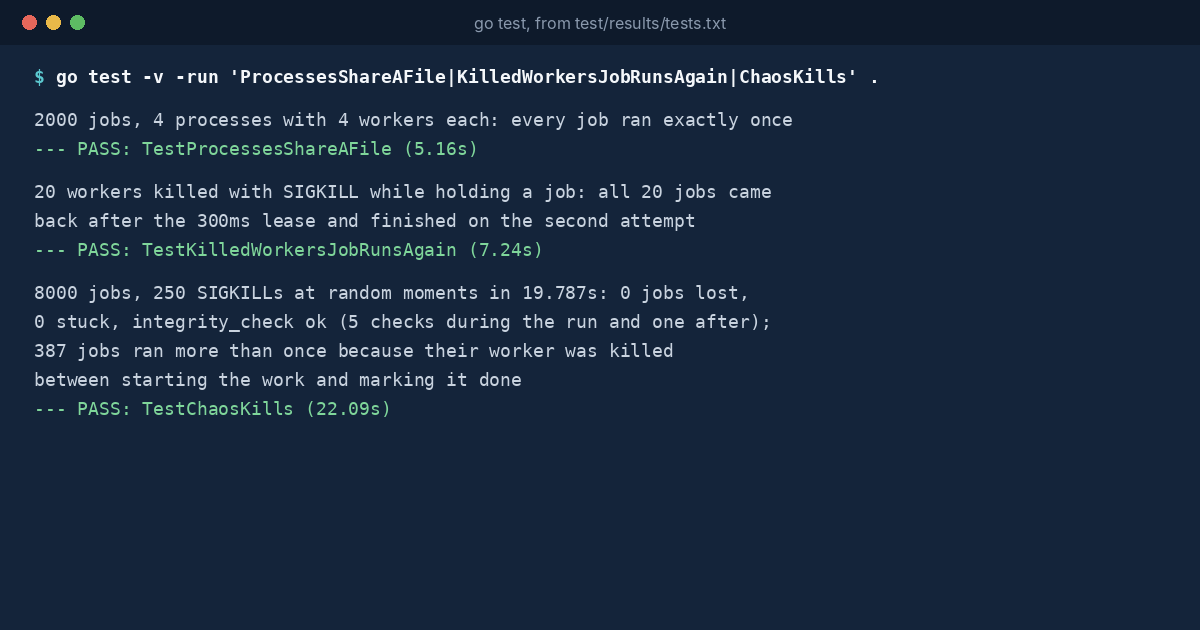
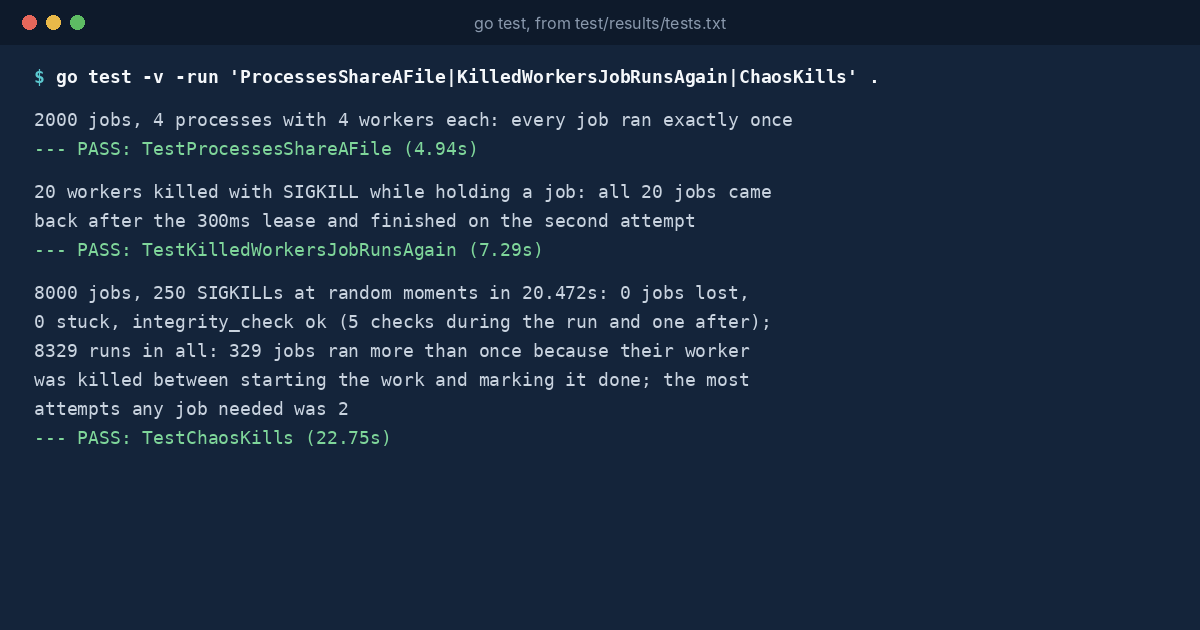
Updates for ukue's review fixes and the new test results
- The test numbers from the new recording: 329 jobs ran more than once in
  the kill test, 21 microseconds for an empty claim, 1.1 ms to add, claim
  and finish, about 4,000 jobs a second added and 900 run.
- The HTTP API page covers the browser and host-name protection and the
  priority range; the file format page the priority range and when ukue
  switches a file to WAL.
- Smaller corrections to the quick start, the release post and the name
  post, and the test image redrawn from the new results.

Claude-Session: https://claude.ai/code/session_01BGMFGM2Wh27ePKhDb5b5X3

Changed region(s): [[0.0308, 0.5429, 0.6167, 0.7238], [0.4317, 0.4524, 0.4933, 0.4825], [0.3392, 0.2111, 0.4008, 0.2413]]

diff --git a/content/posts/how-ukue-was-tested.md b/content/posts/how-ukue-was-tested.md
@@ -18,7 +18,7 @@ The hardest test starts four worker processes on one file with 8,000 jobs, four 
 
 After 250 kills and about 20 seconds, all 8,000 jobs were done. None was lost, none was left stuck, and SQLite's own integrity check found the file intact, both during the run and after it.
 
-387 jobs ran more than once. That's expected: their worker was killed after it started the work and before it marked the job done, so the job's lease ran out and another worker picked it up. This is what at-least-once delivery means in practice, and it's why handlers should be safe to repeat.
+329 jobs ran more than once. That's expected: their worker was killed after it started the work and before it marked the job done, so the job's lease ran out and another worker picked it up. This is what at-least-once delivery means in practice, and it's why handlers should be safe to repeat.
 
 ## A Kill While Holding a Job
 
@@ -34,8 +34,8 @@ ukue's [file format](https://ukue.com/file-format/) is meant to be shared, so on
 
 ## A Long Schedule
 
-A queue full of jobs scheduled for later shouldn't slow down the jobs that are due. With 100,000 scheduled jobs in the file, a claim that found nothing due took 42 microseconds, and adding, claiming and finishing a job took 1.6 milliseconds. Claims look jobs up through indexes, and the test checks SQLite's query plans to make sure they stay that way.
+A queue full of jobs scheduled for later shouldn't slow down the jobs that are due. With 100,000 scheduled jobs in the file, a claim that found nothing due took 21 microseconds, and adding, claiming and finishing a job took 1.1 milliseconds. Claims look jobs up through indexes, and the test checks SQLite's query plans to make sure they stay that way.
 
 ## And the Rest
 
-Every operation has its own tests: delays, priorities, backoff, dead letters, leases that run out, the HTTP API and the command line. The whole suite also runs under Go's race detector, which found nothing. You can run all of it yourself with `sh scripts/record-tests.sh` from [the repository](https://github.com/ukue-queue/ukue).
+Every operation has its own tests: delays, priorities, backoff, dead letters, leases that run out, the HTTP API and the command line. One test has another program hold the file's write lock just as a job finishes; the worker keeps its lease and keeps trying to mark the job done until it can, and the job runs once. The whole suite also runs under Go's race detector, which found nothing. You can run all of it yourself with `sh scripts/record-tests.sh` from [the repository](https://github.com/ukue-queue/ukue).

diff --git a/content/pages/http-api.md b/content/pages/http-api.md
@@ -20,6 +20,7 @@ UKUE_TOKEN=s3cret ukue serve --addr :7660 jobs.ukue
 - **Times** in answers are in UTC, such as `"2026-10-06T09:00:00.000Z"`.
 - **Payloads.** A `payload` that is a JSON string is stored as its text, and any other JSON value is stored as compact JSON. Send binary data as `payload_base64`. Answers give the payload back as text when it is valid UTF-8, and as `payload_base64` otherwise.
 - **Size.** A request may be up to 1 MiB, unless the server was started with a different `--max-body`.
+- **Browsers.** Requests that change something are refused when they come from a web page on another site. Without a token, the server also answers only requests addressed to `localhost`, `127.0.0.1` or `::1`, so a web page can't reach it through a DNS name that points at your machine.
 
 ## Add a Job
 
@@ -29,7 +30,7 @@ UKUE_TOKEN=s3cret ukue serve --addr :7660 jobs.ukue
 {"queue": "email", "payload": {"to": "dana@example.com"}, "delay": "10m", "max_attempts": 5, "priority": 0}
 ```
 
-Only `queue` is required. Give `delay` or `run_at`, an RFC 3339 time, but not both. The answer is `201` with `{"id": 42}`.
+Only `queue` is required. Give `delay` or `run_at`, an RFC 3339 time, but not both. `priority` runs from -100 to 100. The answer is `201` with `{"id": 42}`.
 
 ## Run Jobs
 
@@ -65,7 +66,7 @@ Keep the `token`. The four calls below need it, and it proves the worker still h
 | `POST /v1/jobs/{id}/extend` | `{"token": "...", "lease": 60}` | Renews the lease for a long job |
 | `POST /v1/jobs/{id}/release` | `{"token": "..."}` | Puts the job back without counting the attempt, for a worker that is shutting down |
 
-If the worker no longer holds the job, because its lease ran out or someone deleted it, these calls answer `409`. The job may already be running somewhere else.
+These calls answer `409` once the worker no longer holds the job: someone deleted it, or its lease ran out and a later claim put it back on the queue. The job may then already be running somewhere else.
 
 ## Look and Tidy Up
 

diff --git a/content/pages/about.md b/content/pages/about.md
@@ -12,7 +12,7 @@ Most apps reach the point where some work has to happen later, or somewhere othe
 
 ## How It's Built
 
-- **On SQLite.** ukue doesn't bring its own storage engine. The file is an SQLite database with a documented layout, and SQLite takes care of crash safety and locking. Every change to a job is one transaction, flushed to disk before ukue moves on.
+- **On SQLite.** The file is an SQLite database with a documented layout, and SQLite takes care of crash safety and locking. Every change to a job is one transaction, flushed to disk before ukue moves on.
 - **The file format comes first.** The layout, and the steps for claiming and finishing jobs, are written up in [the file format](https://ukue.com/file-format/), so programs in other languages can share a file without going through ukue at all.
 - **Library or binary.** In Go, ukue is a package you import. For everything else there's the `ukue` command, which runs a script for each job or serves a small [HTTP API](https://ukue.com/http-api/).
 - **Tested by breaking it.** The tests kill worker processes at random moments while they work, then check that no job was lost and the file is intact. [The results](https://github.com/ukue-queue/ukue/tree/main/test/results) are published with the code.
@@ -41,7 +41,7 @@ The job it held goes back on the queue when its lease runs out, after a minute b
 
 ### How fast is it?
 
-Fast enough for most small teams. On a two-core cloud machine, with every change flushed to disk, ukue added about 3,600 jobs a second, and a worker ran about 1,000 jobs a second. The disk sets the pace more than anything else.
+Fast enough for most small teams. On a two-core cloud machine, with every change flushed to disk, ukue added about 4,000 jobs a second, and a worker ran about 900 jobs a second. The disk sets the pace more than anything else.
 
 ### How do you say it?
 

diff --git a/content/posts/ukue-0-1.md b/content/posts/ukue-0-1.md
@@ -39,12 +39,12 @@ ukue add jobs.ukue email '{"to": "dana@example.com"}'
 ukue work jobs.ukue email -- ./send-email.sh
 ```
 
-The script gets the payload on its standard input. Exit status 0 means done, and anything else means try again later.
+The script gets the payload on its standard input. Exit status 0 means done, 65 means the payload is bad and the job should go to the dead letters, and anything else means try again later.
 
 From Go, it's a package with `Enqueue` and `Work`. From any other language, `ukue serve` offers [an HTTP API](https://ukue.com/http-api/) where workers claim a job, do it and report back. The [quick start](https://ukue.com/quick-start/) covers all three.
 
 ## Where It Fits
 
-ukue is built for small teams and single machines: one app server, or a few workers on the same box, handling up to about a thousand jobs a second. Workers on other machines can share the queue through `ukue serve`. It isn't trying to be a distributed message broker. A system that has to move tens of thousands of messages a second across a cluster wants a different tool.
+ukue is built for small teams and single machines: one app server, or a few workers on the same box, handling up to several hundred jobs a second. Workers on other machines can share the queue through `ukue serve`. It isn't trying to be a distributed message broker. A system that has to move tens of thousands of messages a second across a cluster wants a different tool.
 
 The code is open source under the Apache License 2.0, and the binaries for Linux, macOS and Windows are on [the download page](https://ukue.com/download/). [How it was tested](https://ukue.com/how-the-ukue-job-queue-was-tested-250-killed-workers-0-lost-jobs/) is a post of its own.

diff --git a/content/pages/file-format.md b/content/pages/file-format.md
@@ -11,7 +11,7 @@ A ukue file is an SQLite database with two tables in it. Any program that can wr
 
 ## The File
 
-- **SQLite 3, in WAL mode.** ukue switches a new file to WAL, and the setting is stored in the file, so every program that opens it uses WAL too. Readers can then carry on while a writer commits.
+- **SQLite 3, in WAL mode.** When ukue adds its tables to a file, it switches the file to WAL, and the setting is stored in the file, so every program that opens it uses WAL too. Readers can then carry on while a writer commits.
 - **Marked as ukue.** A file ukue creates for itself has the application ID `0x756B7565`, the letters "ukue", in its SQLite header. The tables can also sit inside an app's own database, next to its tables.
 - **On one machine.** Many processes on one machine can use the file at once. Programs elsewhere go through `ukue serve`, because SQLite's locking doesn't work over network file systems.
 - **Times** are whole milliseconds since 1970, in UTC.
@@ -28,7 +28,7 @@ A ukue file is an SQLite database with two tables in it. Any program that can wr
 | `queue` | The queue's name, 1 to 200 characters |
 | `payload` | The job's data, as bytes. ukue never reads it |
 | `state` | `ready`, `running`, `done` or `dead` |
-| `priority` | Among due jobs, the highest priority runs first. Default 0 |
+| `priority` | Among due jobs, the highest priority runs first. From -100 to 100, default 0 |
 | `attempts` | How many times the job has been claimed |
 | `max_attempts` | How many attempts it gets before it's dead. Default 10 |
 | `run_at` | When a ready job may start. Default now |

diff --git a/content/pages/quick-start.md b/content/pages/quick-start.md
@@ -44,7 +44,7 @@ The command tells ukue how it went through its exit status:
 - **65** says the payload is bad and trying again won't help. The job goes straight to the dead letters.
 - **Anything else** fails the attempt. The job goes back on the queue and is tried again after 10 seconds, then 20, then 40, doubling up to an hour, 10 attempts in all.
 
-The command also gets `UKUE_JOB_ID`, `UKUE_QUEUE`, `UKUE_ATTEMPT` and `UKUE_MAX_ATTEMPTS` in its environment. Add `--concurrency 4` to run four jobs at once, and `--timeout 2m` to stop a command that hangs. Press Ctrl-C to stop the worker: it lets running commands finish first.
+The command also gets `UKUE_JOB_ID`, `UKUE_QUEUE`, `UKUE_ATTEMPT` and `UKUE_MAX_ATTEMPTS` in its environment. Add `--concurrency 4` to run four jobs at once, and `--timeout 2m` to stop a command that hangs. Press Ctrl-C to stop the worker. It lets running commands finish, for up to 30 seconds by default, then sends them SIGTERM.
 
 To see what failed and try it again:
 

diff --git a/content/posts/the-name.md b/content/posts/the-name.md
@@ -6,7 +6,7 @@ featured_image: "https://ukue.com/images/micro-u.png"
 tags: ["the name", "ukue"]
 ---
 
-ukue is meant to be read as µkue, a micro queue. Plenty of people will say "you-queue" instead, and that's fine. But the u isn't an abbreviation of micro. It's a stand-in for the real sign, the Greek letter μ, and the story of how one turned into the other is older than computers.
+ukue is meant to be read as µkue, a micro queue. Plenty of people will say "you-queue" instead, and that's fine. The u is a stand-in for the real sign of micro, the Greek letter μ, and the story of how one turned into the other is older than computers.
 
 Micro comes from the Greek *mikrós*, "small", and in Greek that word starts with μ, their letter m. When the metric system gave its prefixes one-letter symbols, the Latin m was already taken by milli, a thousandth. So micro, a millionth, got the Greek m. That's why a microsecond is written µs and a microfarad µF.
 
